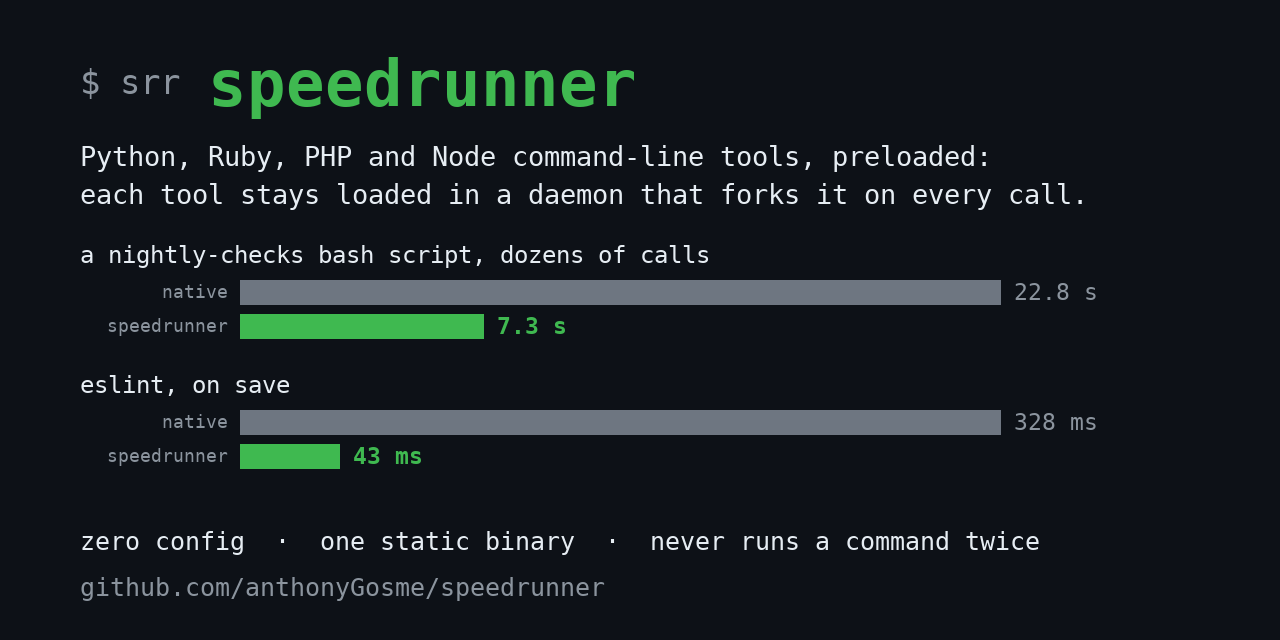
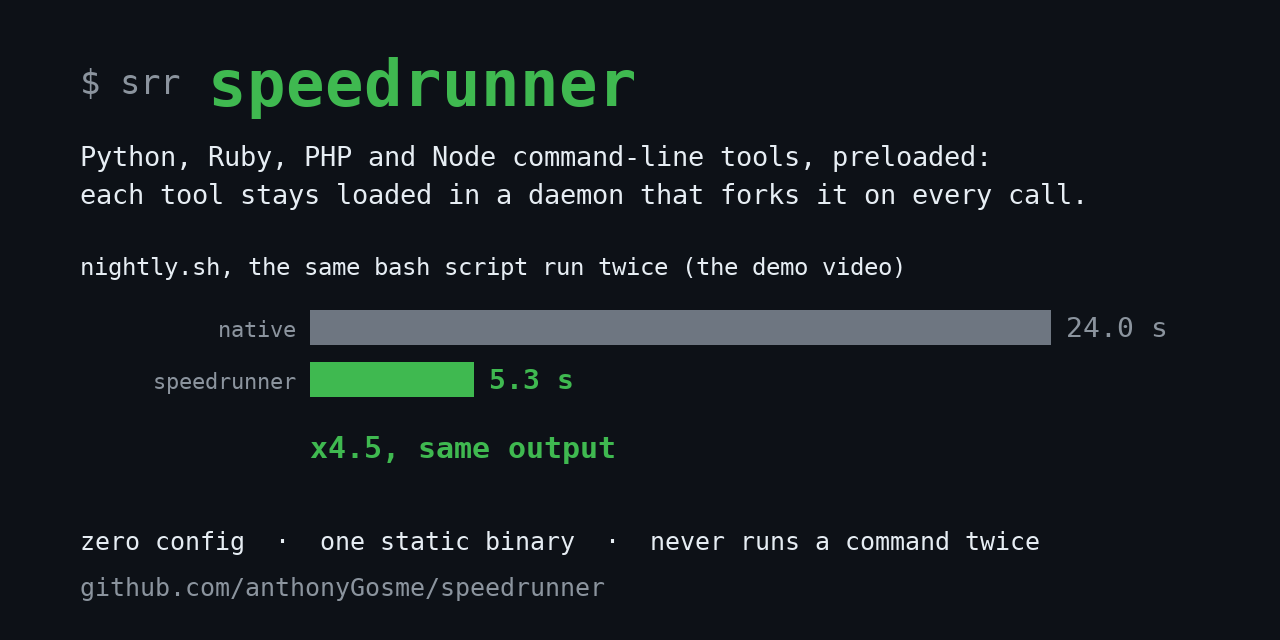
One set of numbers: the demo video's (24.0 s -> 5.3 s, x4.5)
The README's head, the social preview and the repository's description
quoted the median recordings (22.8 s -> 7.3 s cold); the video shows
24.0 s -> 5.3 s with warm daemons. They now all show the video's.

Changed region(s): [[0.0625, 0.375, 0.9062, 0.75]]

diff --git a/docs/social-preview.py b/docs/social-preview.py
@@ -1,5 +1,5 @@
 """The repository's social preview (1280x640, the card shown where its link is
-shared): name, what it serves, two measured gains, its promises.
+shared): name, what it serves, the demo video's gain, its promises.
 
 Run (Pillow and the DejaVu fonts; a Debian container has both at hand):
   docker run --rm -v "$PWD/docs:/d" python:3.12-slim sh -c \\
@@ -31,20 +31,20 @@ d.text((x, 140), "Python, Ruby, PHP and Node command-line tools, preloaded:",
 d.text((x, 178), "each tool stays loaded in a daemon that forks it on every call.",
        font=font(MONO, 27), fill=FG)
 
-# Two measured gains, as bars on a shared scale per row.
-rows = [("a nightly-checks bash script, dozens of calls", 22.8, 7.3, "s"), ("eslint, on save", 328, 43, "ms")]
-y = 240
-bar_x, bar_w = x + 160, 760
-for label, native, fast, unit in rows:
-    d.text((x, y), label, font=font(MONO, 24), fill=FG)
-    for i, (value, colour, who) in enumerate([(native, NATIVE, "native"), (fast, FAST, "speedrunner")]):
-        top = y + 40 + i * 34
-        length = max(6, int(bar_w * value / native))
-        d.rectangle((bar_x, top, bar_x + length, top + 24), fill=colour)
-        d.text((bar_x + length + 14, top - 2), f"{value:g} {unit}", font=font(MONO_BOLD if i else MONO, 23),
-               fill=ACCENT if i else DIM)
-        d.text((bar_x - 12, top + 1), who, font=font(MONO, 18), fill=DIM, anchor="ra")
-    y += 130
+# The gain the demo video shows (bench/speedrunner.mp4): the same numbers
+# wherever the project is presented.
+label, native, fast = "nightly.sh, the same bash script run twice (the demo video)", 24.0, 5.3
+y = 252
+bar_x, bar_w = x + 230, 740
+d.text((x, y), label, font=font(MONO, 24), fill=FG)
+for i, (value, colour, who) in enumerate([(native, NATIVE, "native"), (fast, FAST, "speedrunner")]):
+    top = y + 58 + i * 52
+    length = max(6, int(bar_w * value / native))
+    d.rectangle((bar_x, top, bar_x + length, top + 34), fill=colour)
+    d.text((bar_x + length + 16, top + 1), f"{value:.1f} s", font=font(MONO_BOLD if i else MONO, 28),
+           fill=ACCENT if i else DIM)
+    d.text((bar_x - 14, top + 6), who, font=font(MONO, 22), fill=DIM, anchor="ra")
+d.text((bar_x, y + 178), "x4.5, same output", font=font(MONO_BOLD, 30), fill=ACCENT)
 
 d.text((x, 526), "zero config  ·  one static binary  ·  never runs a command twice",
        font=font(MONO, 25), fill=FG)

diff --git a/docs/ARCHITECTURE.md b/docs/ARCHITECTURE.md
@@ -378,7 +378,7 @@ Elles ne relèvent pas d'un bug de mise en œuvre, mais de ce que le fork depuis
 | Suite de stress, tests de sécurité côté démon | fait | ~38 000 appels sous `kill -9`, arrêts et péremptions, sans échec, une fois corrigés les bugs de course trouvés |
 | Contre les démons dédiés | fait | eslint x7,6 (eslint_d x3,1), mypy x4,2 (dmypy x1,4) ; blackd + curl gagne |
 | 4 bis Instantané du driver (niveau 4) | reporté | propre à aws |
-| 5 Bench comparatif et vidéo | fait | script de démo 22,8 s → 7,3 s (5,6 s chaud) ; vidéo asciinema |
+| 5 Bench comparatif et vidéo | fait | vidéo du script de démo : 24,0 s → 5,3 s, x4,5, démons chauds (médiane de trois enregistrements : 22,8 s → 5,6 s chaud, 7,3 s à froid) |
 | Release 0.3.1 | fait | binaires statiques x86_64 et aarch64, attestations de provenance signées |
 
 Décision ouverte : quand le client meurt (`kill -9`), l'enfant va aujourd'hui jusqu'au bout ; lui envoyer SIGHUP serait plus proche du natif, mais moins sûr pour une commande comme `aws s3 rm`.

diff --git a/README.md b/README.md
@@ -12,9 +12,8 @@ the interpreter start, the imports and the configuration are done once, and
 each call starts with them already done.
 
 - **A real script.** The bash script below runs a small shop's nightly checks: black, pytest, poetry,
-  rubocop, rspec, phpunit, artisan, aws and ansible, dozens of calls doing real work. 22.8 s natively,
-  7.3 s with `speedrunner exec`, its daemons started by the script itself; 5.6 s once they are warm
-  (2-vCPU VPS).
+  rubocop, rspec, phpunit, artisan, aws and ansible, dozens of calls doing real work. 24.0 s natively,
+  5.3 s with `speedrunner exec`, its daemons warm: x4.5, same output (2-vCPU VPS).
 - **An editor's save.** eslint on one file: 328 → 43 ms; mypy: 213 → 50 ms. Faster than the tools'
   own daemons, eslint_d and dmypy ([below](#against-the-tools-own-daemons)).
 - **Never run twice.** Until a call has started, any problem sends it to the real tool, natively.
